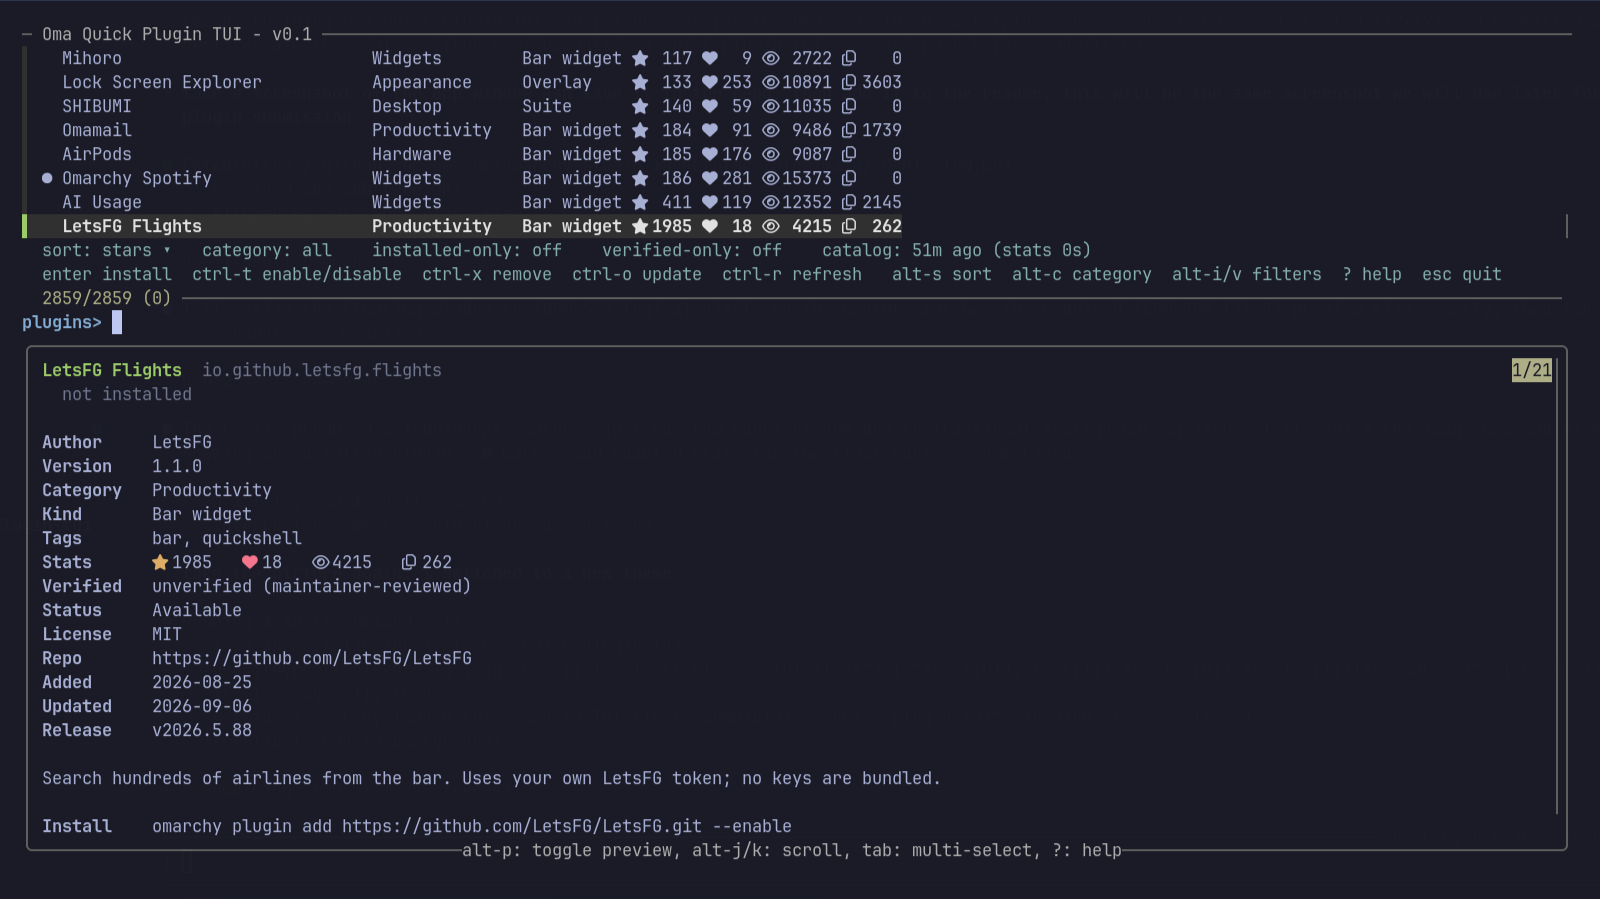
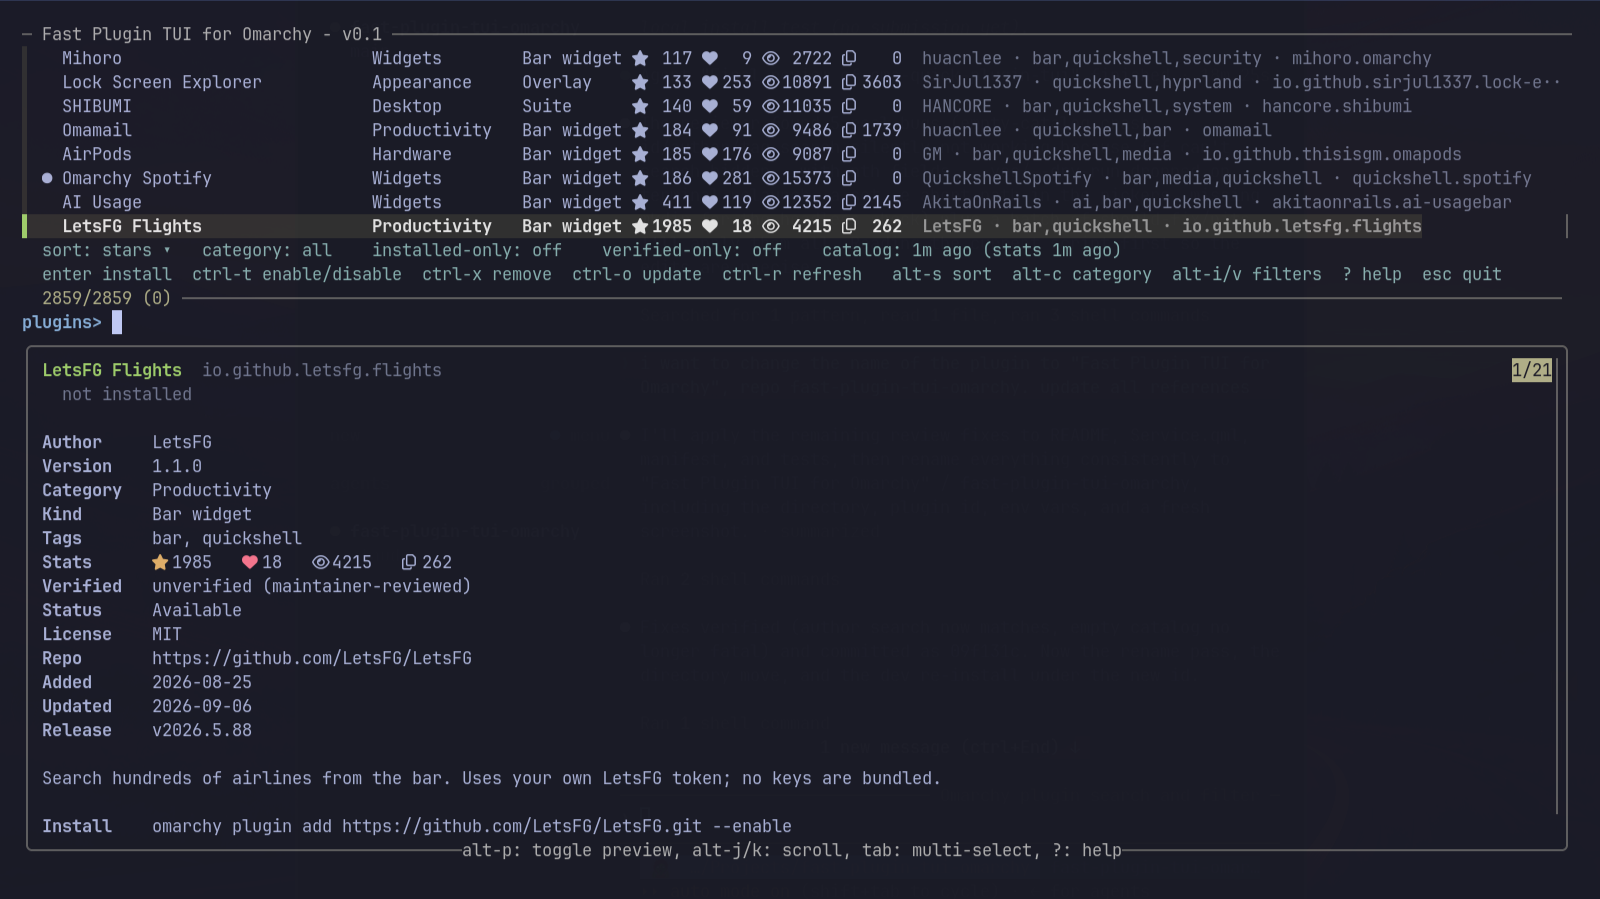
Rename to Fast Plugin TUI for Omarchy (fast-plugin-tui-omarchy)
Plugin id juangalt.fast-plugin-tui-omarchy, script bin/fast-plugin-tui-omarchy,
env vars FAST_PLUGIN_TUI_OMARCHY_*, cache ~/.cache/fast-plugin-tui-omarchy,
repo github.com/juangalt/fast-plugin-tui-omarchy. Fresh preview.png with the
new title. build_rows now derives the cache on a cold headless call.

Claude-Session: https://claude.ai/code/session_01UBPWnvAWCxXMeT8xAkXGeK

Changed region(s): [[0.5625, 0.0623, 0.9688, 0.3115], [0.0312, 0.0311, 0.25, 0.0623]]

diff --git a/Service.qml b/Service.qml
@@ -2,9 +2,9 @@ import QtQuick
 import Quickshell
 import Quickshell.Io
 
-// Oma Quick Plugin TUI service: keeps an app-launcher entry installed while the plugin
+// Fast Plugin TUI for Omarchy service: keeps an app-launcher entry installed while the plugin
 // is enabled and removes it when the plugin is disabled or removed. The TUI
-// itself is bin/oma-quick-plugin-tui; nothing else runs inside omarchy-shell.
+// itself is bin/fast-plugin-tui-omarchy; nothing else runs inside omarchy-shell.
 Item {
   id: root
 
@@ -12,12 +12,12 @@ Item {
   property var manifest: null
 
   readonly property string pluginId: manifest && manifest.id
-    ? String(manifest.id) : "juangalt.oma-quick-plugin-tui"
+    ? String(manifest.id) : "juangalt.fast-plugin-tui-omarchy"
   readonly property string homeDir: Quickshell.env("HOME")
   readonly property string dataHome: Quickshell.env("XDG_DATA_HOME") || homeDir + "/.local/share"
   readonly property string desktopPath: dataHome + "/applications/" + pluginId + ".desktop"
   readonly property string shellConfigPath: homeDir + "/.config/omarchy/shell.json"
-  readonly property string marker: "X-Oma-Quick-Plugin-TUI-Managed=true"
+  readonly property string marker: "X-Fast-Plugin-TUI-Omarchy-Managed=true"
 
   // Omarchy 4.0.3 strips __sourceDir from the manifest handed to third-party
   // plugins, so derive the plugin directory from this file's own URL. Works
@@ -26,7 +26,7 @@ Item {
     var dir = localPath(Qt.resolvedUrl("."))
     return dir.charAt(dir.length - 1) === "/" ? dir.slice(0, -1) : dir
   }
-  readonly property string desktopSourcePath: sourceDir + "/assets/oma-quick-plugin-tui.desktop"
+  readonly property string desktopSourcePath: sourceDir + "/assets/fast-plugin-tui-omarchy.desktop"
 
   // bash <script> <source> <target> <plugin-dir> <marker>: substitute
   // @PLUGIN_DIR@ and replace the launcher atomically. Refuses to touch a file
@@ -36,10 +36,10 @@ Item {
     "set -euo pipefail",
     "source_file=$1; target=$2; plugin_dir=$3; marker=$4",
     "if [[ -L \"$target\" || (-e \"$target\" && ! -f \"$target\") ]]; then",
-    "  printf 'Oma Quick Plugin TUI: refusing to replace non-regular launcher: %s\\n' \"$target\" >&2; exit 1",
+    "  printf 'Fast Plugin TUI for Omarchy: refusing to replace non-regular launcher: %s\\n' \"$target\" >&2; exit 1",
     "fi",
     "if [[ -f \"$target\" ]] && ! grep -Fqx -- \"$marker\" \"$target\"; then",
-    "  printf 'Oma Quick Plugin TUI: refusing to replace an unowned launcher: %s\\n' \"$target\" >&2; exit 1",
+    "  printf 'Fast Plugin TUI for Omarchy: refusing to replace an unowned launcher: %s\\n' \"$target\" >&2; exit 1",
     "fi",
     // The template wraps @PLUGIN_DIR@ in double quotes on the Exec= line, so
     // escape the directory for a quoted desktop-entry argument. Two layers
@@ -94,7 +94,7 @@ Item {
   function installLauncher() {
     if (!sourceDir || launcherInstaller.running) return
     launcherInstaller.command = [
-      "bash", "-c", installScript, "oma-quick-plugin-tui-launcher-install",
+      "bash", "-c", installScript, "fast-plugin-tui-omarchy-launcher-install",
       desktopSourcePath, desktopPath, sourceDir, marker
     ]
     launcherInstaller.running = true
@@ -110,7 +110,7 @@ Item {
 
     onExited: function(exitCode) {
       if (exitCode !== 0)
-        console.warn("Oma Quick Plugin TUI: could not install app launcher:",
+        console.warn("Fast Plugin TUI for Omarchy: could not install app launcher:",
           launcherStderr.text.trim())
     }
   }
@@ -119,7 +119,7 @@ Item {
 
   Component.onDestruction: {
     Quickshell.execDetached([
-      "bash", "-c", cleanupScript, "oma-quick-plugin-tui-launcher-cleanup",
+      "bash", "-c", cleanupScript, "fast-plugin-tui-omarchy-launcher-cleanup",
       desktopPath, shellConfigPath, pluginId, marker
     ])
   }

diff --git a/README.md b/README.md
@@ -1,10 +1,10 @@
-# Oma Quick Plugin TUI
+# Fast Plugin TUI for Omarchy
 
 A terminal UI for the [Omarchy plugin marketplace](https://plugins.omarchy.org),
 in the same style as Omarchy's *Install → AUR* picker: fuzzy search, a details
 pane, and one keypress to install.
 
-![Oma Quick Plugin TUI](preview.png)
+![Fast Plugin TUI for Omarchy](preview.png)
 
 - **Search** by name, author, tag or id (author · tags · id are shown dimmed at the end of each row)
 - **Filter** by category (Widgets, Productivity, System, Hardware, …), installed-only, verified-only
@@ -18,24 +18,24 @@ ship with Omarchy.
 ## Install
 
 ```bash
-omarchy plugin add https://github.com/juangalt/oma-quick-plugin-tui.git --enable
+omarchy plugin add https://github.com/juangalt/fast-plugin-tui-omarchy.git --enable
 ```
 
-Enabling the plugin adds an **Oma Quick Plugin TUI** entry to the app launcher
+Enabling the plugin adds an **Fast Plugin TUI for Omarchy** entry to the app launcher
 (`SUPER + SPACE`). You can also run it directly:
 
 ```bash
-~/.config/omarchy/plugins/juangalt.oma-quick-plugin-tui/bin/oma-quick-plugin-tui
+~/.config/omarchy/plugins/juangalt.fast-plugin-tui-omarchy/bin/fast-plugin-tui-omarchy
 ```
 
 ### Remove
 
 ```bash
-omarchy plugin remove juangalt.oma-quick-plugin-tui
+omarchy plugin remove juangalt.fast-plugin-tui-omarchy
 ```
 
 This deletes the plugin checkout and its app-launcher entry. The catalog cache
-in `~/.cache/oma-quick-plugin-tui/` can be deleted by hand if you want it gone too.
+in `~/.cache/fast-plugin-tui-omarchy/` can be deleted by hand if you want it gone too.
 
 ### Omarchy menu entry (optional)
 
@@ -44,7 +44,7 @@ To get a *Plugins* row at the bottom of the *Install* submenu, add this to
 the same Nerd Font puzzle glyph Omarchy uses for its own plugin menu):
 
 ```jsonc
-"install.plugins": {"icon":"","label":"Plugins","action":"omarchy-launch-tui --app-id=TUI.float ~/.config/omarchy/plugins/juangalt.oma-quick-plugin-tui/bin/oma-quick-plugin-tui"},
+"install.plugins": {"icon":"","label":"Plugins","action":"omarchy-launch-tui --app-id=TUI.float ~/.config/omarchy/plugins/juangalt.fast-plugin-tui-omarchy/bin/fast-plugin-tui-omarchy"},
 ```
 
 ### Keybinding (optional)
@@ -54,7 +54,7 @@ In `~/.config/hypr/bindings.lua` (check the key is free first with
 
 ```lua
 o.bind("SUPER + SHIFT + CTRL + P", "Plugins",
-  "omarchy-launch-tui --app-id=TUI.float $HOME/.config/omarchy/plugins/juangalt.oma-quick-plugin-tui/bin/oma-quick-plugin-tui")
+  "omarchy-launch-tui --app-id=TUI.float $HOME/.config/omarchy/plugins/juangalt.fast-plugin-tui-omarchy/bin/fast-plugin-tui-omarchy")
 ```
 
 The window uses the `TUI.float` app-id, so Omarchy floats and centres it like
@@ -90,7 +90,7 @@ In the list, `●` marks an enabled plugin and `○` one that is installed but d
 
 Install, remove and update go through the official `omarchy plugin` commands
 with their normal confirmations (the untrusted-code warning, the bar-section
-picker for bar widgets, the update diff). Set `OMA_QUICK_PLUGIN_TUI_YES=1` or pass
+picker for bar widgets, the update diff). Set `FAST_PLUGIN_TUI_OMARCHY_YES=1` or pass
 `--yes` to skip them when batch-installing.
 
 ## Data
@@ -100,7 +100,7 @@ picker for bar widgets, the update diff). Set `OMA_QUICK_PLUGIN_TUI_YES=1` or pa
 | `https://plugins.omarchy.org/catalog.json` | names, categories, tags, stars, verification, install command | 6 h |
 | `https://api.omarchyplugins.com/v1/stats` | hearts, views, copies | 15 min |
 
-Cache lives in `~/.cache/oma-quick-plugin-tui/`. If a download fails the last
+Cache lives in `~/.cache/fast-plugin-tui-omarchy/`. If a download fails the last
 cached copy is used and the header says so. Installed state comes from
 `omarchy plugin list --json` on every reload; if `omarchy-shell` is not running
 it falls back to scanning `~/.config/omarchy/plugins/*/manifest.json`, and the
@@ -115,7 +115,7 @@ telemetry. Everything it does:
   `https://api.omarchyplugins.com/v1/stats`, with curl pinned to HTTPS
   (`--proto =https --proto-redir =https`), at most 3 redirects and a 64 MB size
   cap. A download is only accepted once it parses as JSON with a `plugins` key.
-- **A cache directory**: `~/.cache/oma-quick-plugin-tui/` (catalog, stats, and
+- **A cache directory**: `~/.cache/fast-plugin-tui-omarchy/` (catalog, stats, and
   the derived TSV/NDJSON files).
 - **A private per-run state directory** under `$XDG_RUNTIME_DIR` (or `/tmp`; `mktemp -d`,
   mode 0700, removed on exit) holding the sort/filter state file and fzf's
@@ -123,8 +123,8 @@ telemetry. Everything it does:
   port — and requires a random per-run API key; the tool uses it for one
   thing, refreshing the header after the highlight timeout.
 - **One `.desktop` file**: while the plugin is enabled, the service writes
-  `~/.local/share/applications/juangalt.oma-quick-plugin-tui.desktop`, tagged
-  with an `X-Oma-Quick-Plugin-TUI-Managed=true` marker, and removes it on
+  `~/.local/share/applications/juangalt.fast-plugin-tui-omarchy.desktop`, tagged
+  with an `X-Fast-Plugin-TUI-Omarchy-Managed=true` marker, and removes it on
   disable/remove. It never replaces a launcher it did not write.
 - **Plugin changes go through `omarchy plugin add/remove/enable/disable/update`**,
   with their normal confirmations (unless you pass `--yes`).
@@ -139,36 +139,36 @@ file is parsed rather than sourced, `alt-o` only opens `http(s)` URLs, and
 ## Options
 
 ```
-oma-quick-plugin-tui [--refresh] [--yes] [--dry-run]
+fast-plugin-tui-omarchy [--refresh] [--yes] [--dry-run]
 ```
 
 `--refresh` re-downloads the catalog and stats before starting (same as
-`ctrl-r`). `--yes` (or `OMA_QUICK_PLUGIN_TUI_YES=1`) skips the `omarchy plugin`
-confirmations. `--dry-run` (or `OMA_QUICK_PLUGIN_TUI_DRY_RUN=1`) prints the
-`omarchy plugin` commands instead of running them. `OMA_QUICK_PLUGIN_TUI_CATALOG_URL` and
-`OMA_QUICK_PLUGIN_TUI_STATS_URL` point the downloads somewhere else (any URL curl
+`ctrl-r`). `--yes` (or `FAST_PLUGIN_TUI_OMARCHY_YES=1`) skips the `omarchy plugin`
+confirmations. `--dry-run` (or `FAST_PLUGIN_TUI_OMARCHY_DRY_RUN=1`) prints the
+`omarchy plugin` commands instead of running them. `FAST_PLUGIN_TUI_OMARCHY_CATALOG_URL` and
+`FAST_PLUGIN_TUI_OMARCHY_STATS_URL` point the downloads somewhere else (any URL curl
 understands, including `file://`) — used by the tests.
 
 ## Development
 
 ```bash
-git clone https://github.com/juangalt/oma-quick-plugin-tui.git
-ln -s "$PWD/oma-quick-plugin-tui" ~/.config/omarchy/plugins/juangalt.oma-quick-plugin-tui
+git clone https://github.com/juangalt/fast-plugin-tui-omarchy.git
+ln -s "$PWD/fast-plugin-tui-omarchy" ~/.config/omarchy/plugins/juangalt.fast-plugin-tui-omarchy
 omarchy-shell shell rescanPlugins
-omarchy plugin enable juangalt.oma-quick-plugin-tui
+omarchy plugin enable juangalt.fast-plugin-tui-omarchy
 ```
 
-Headless checks (after one `bin/oma-quick-plugin-tui --refresh` run to fill the
-cache): `bin/oma-quick-plugin-tui __rows | head`,
-`bin/oma-quick-plugin-tui __preview juangalt.oma-quick-plugin-tui`, and
+Headless checks (after one `bin/fast-plugin-tui-omarchy --refresh` run to fill the
+cache): `bin/fast-plugin-tui-omarchy __rows | head`,
+`bin/fast-plugin-tui-omarchy __preview juangalt.fast-plugin-tui-omarchy`, and
 `omarchy-plugin-validate .` (run it on the real directory, not the symlink).
 
 `tests/keys.sh` exercises every key binding end-to-end: it starts the TUI in
 dry-run mode under a pseudo-terminal (`tests/ptydrive.py`, which answers
 terminal queries the way foot does, so `gum` behaves as in a real terminal),
 presses each key and checks the screen. It uses a private cache seeded from
-`~/.cache/oma-quick-plugin-tui` (so run the TUI once first, or point
-`OPT_TEST_SEED` at a directory holding `catalog.json` and `stats.json`) and
+`~/.cache/fast-plugin-tui-omarchy` (so run the TUI once first, or point
+`FPTO_TEST_SEED` at a directory holding `catalog.json` and `stats.json`) and
 never downloads anything. Run
 `tests/keys.sh` for the whole matrix or `tests/keys.sh ctrl_r help` for a few
 cases; `KEEP=1` keeps the typescripts.
